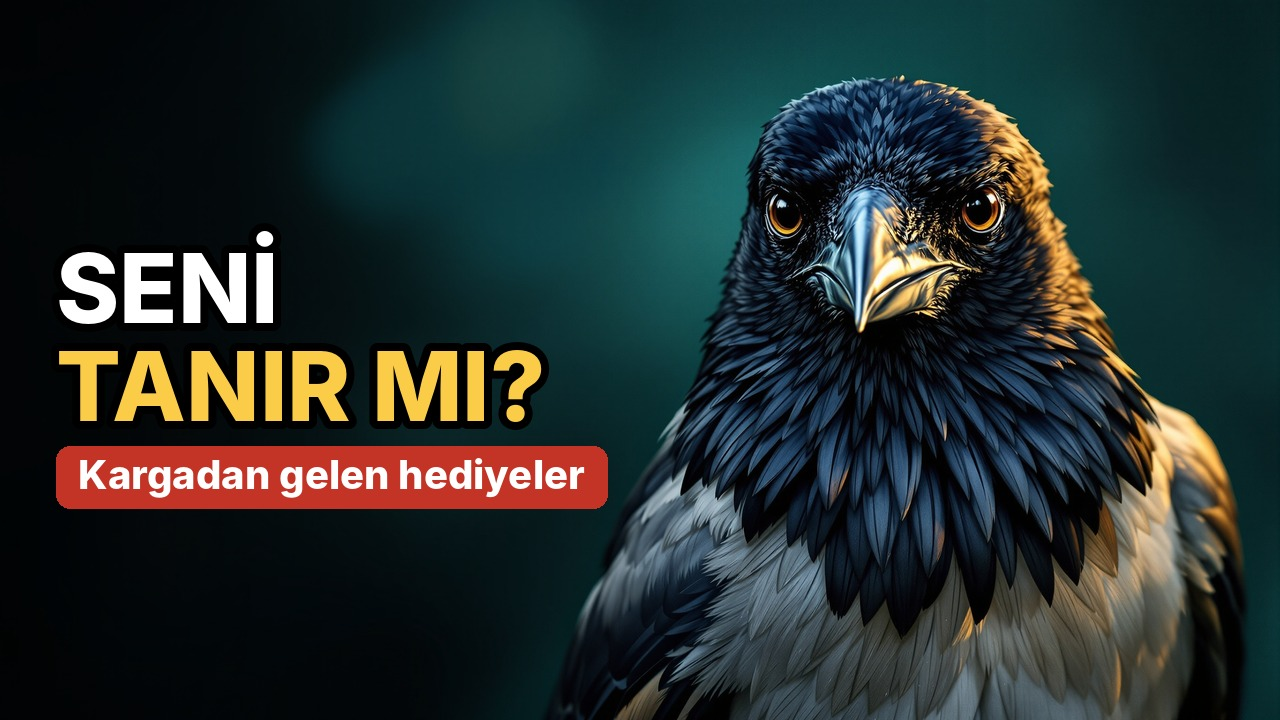
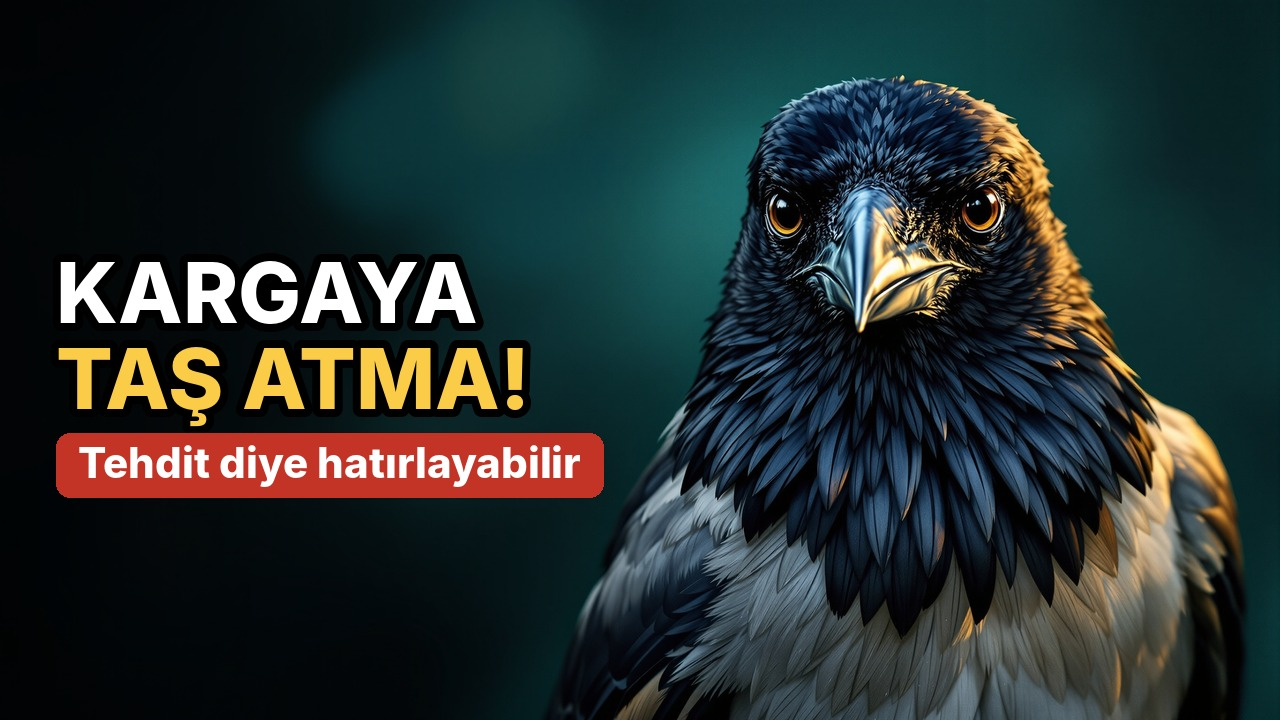
Kirpi metin editörü Tur 3 kaydı
Claude-Session: https://claude.ai/code/session_01BaFTGLb3DUQPcLQVA6aDtg

Changed region(s): [[0.0312, 0.3056, 0.5, 0.7333]]

diff --git a/hayvan-kanali/06-karga/kaynak_eslesme.md b/hayvan-kanali/06-karga/kaynak_eslesme.md
@@ -1,4 +1,4 @@
-# Kaynak eşleme – 06-karga (ikinci sürüm)
+# Kaynak eşleme – 06-karga (üçüncü sürüm, düzeltme turu; 71 cümle, numaralar yeni sıraya göre)
 
 Biçim: cümle no → kaynak → kaynakta geçen ifade → [açıldı / açılamadı, özetten].
 
@@ -19,7 +19,6 @@ Kaynaklar:
 - K12 = 2026-2027 Merkez Av Komisyonu Kararı, resmî PDF tarimorman.gov.tr/DKMP/…/8626.pdf [AÇILDI ama taranmış görüntü, metin okunamadı; kontrolcü resmî PDF'te gördü ve onayladı]
 - K13 = Yılmaz 2026, Gazi Türkiyat 38 (Tatar folklorunda karga) [açılamadı, özetten; künye patrondan]
 - K14 = en.wikipedia Hooded crow [AÇILDI]; K15 = en.wikipedia Rook (bird) [AÇILDI]; K16 = tr.wikipedia Küçük karga [AÇILDI]; K17 = tr.wikipedia Saksağan [AÇILDI]
-K18: Benmazouz, I. ve ark. (2021). Corvids in Urban Environments: A Systematic Global Literature Review. Animals 11(11): 3226. doi:10.3390/ani11113226 – kentlerde kolay yiyecek ve yuva yeri (bilgi kontrolcüsü doğruladı; ncbi.nlm.nih.gov/pmc/articles/PMC8614296) [özetten]
 - Kaynaklar listesinden çıkarılanlar: BTO karga rehberi ve Ankara Üniversitesi listesi (açılamadı); tür tarifleri artık K14–K17'ye dayanıyor. Ankara listesinin özetindeki Türkçe adlar (küçük karga, ekin kargası, leş kargası, saksağan) tr.wikipedia sayfa başlıklarıyla da örtüşüyor.
 
 ## Kanca ve maske deneyi
@@ -29,7 +28,7 @@ K18: Benmazouz, I. ve ark. (2021). Corvids in Urban Environments: A Systematic G
 4. Biyolog, tehdit edici maske, yedi karga → K4/ScienceBlog "wore a mask while trapping seven crows… in 2006"; K1 "trapped, banded and released". [özetten]
 5. O maskeyle yürüdü; kargalar bağırdı, başka maskelere pek bağırmadı → K1 "Few crows scolded trappers who wore no mask or a mask that had not been worn". [özetten]
 6. O gün orada olmayan kargalar bile katıldı → ScienceBlog "crows who weren't present at the time of capture still joined in". [özetten]
-7. Vaat → cümle 17–18 ve 23–25 ile karşılanıyor.
+7. Vaat (düzeltme turu): öfkenin yıllarca sürdüğü → cümle 17–18; kargaya taş atmama → cümle 54 (K1 çekincesi). Hediye vaadi çıkarıldı. [–]
 
 ## Maske deneyi
 8. Soru (boy/yaş/yürüyüş) → K1 "different sizes, ages, genders and walking gaits". [özetten]
@@ -62,9 +61,10 @@ K18: Benmazouz, I. ve ark. (2021). Corvids in Urban Environments: A Systematic G
 29. Yetişkin ekin kargası: gaga dibinde çıplak açık renkli deri → K15 "In adults, a bare area of whitish skin in front of the eye and around the base of the bill is distinctive"; tr.wikipedia Ekin kargası "tüysüz alan… diğer karga türlerinden ayırt edilmesini sağlayan belirgin bir özelliktir". "Yetişkin" kaydı yavruların yüzü tüylü olduğu için. [AÇILDI]
 30. Küçük karga küçük, ensesi gri, gözü açık renk → K16 "Gövdesi siyah, ensesi gri, gözleri beyazdır". [AÇILDI]
 31. Saksağan karga ailesinden; siyah beyaz, uzun kuyruk → K17 "Saksağan, kargagiller (Corvidae) familyasından uzun kuyruklu kuş türlerini kapsayan bir cins". Siyah beyaz renk: Avrupa saksağanı için genel bilgi; K17 sayfasında aranan "siyah" ifadesi bu cümleyi doğrudan vermedi (ZAYIF). [AÇILDI]
-32. Maske deneyleri Amerikan kargasıyla yapıldı → K1, K2 başlıkları "American crows". [özetten]
-33. Türkiye'deki kargalarla aynı deneyi yapan çalışma bulamadık; akraba türlerde benzer bulgular var → arama (bulunamama beyanı); akraba türler: cümle 34 (K5). [–]
-34. Güney Kore'de saksağanlar tırmanan insana saldırdı, tırmanmayana saldırmadı; yüzle tanıma → K5 "all the magpies showed aggression to the climbers, but not the non-climbers"; "learning to recognize the threatening humans by vision" (patron: deney Güney Kore'de). [özetten]
+(eski 32 çıkarıldı: Amerikan kargası çekincesi cümle 10 ve yeni 32'de var.)
+32. Bu deneyi Türkiye'deki kargalarla yapan bir çalışma bulamadık (yeni 32; eski 32 ile birleşti); akraba türlerde benzer bulgular var → arama (bulunamama beyanı); akraba türler: cümle 34 (K5). [–]
+33. Güney Kore'de saksağanlar yuvaya tırmanan insana saldırdı, tırmanmayana saldırmadı → K5 "all the magpies showed aggression to the climbers, but not the non-climbers"; "learning to recognize the threatening humans by vision" (patron: deney Güney Kore'de). [özetten]
+34. (eski 34'ün ikinci yarısı) Araştırmacılar bunu yüzle tanımaya bağlıyor → K5 "learning to recognize the threatening humans by vision"; "bağlıyor" çekincesi. [özetten]
 
 ## Beyin
 35. Soru. [–]
@@ -91,30 +91,28 @@ K18: Benmazouz, I. ve ark. (2021). Corvids in Urban Environments: A Systematic G
 52. Kargalar tehlike gördüğünde bağırıyor; maske deneyinde de böyle yaptılar → K1 "scolded and mobbed". [özetten]
 
 ## Kent ve çöp
-53. Kentlerde karga gibi kuşlar kolay yiyecek ve yuva yeri buluyor → K18 Springer "urban corvids generally benefit from the availability of easily accessible food and artificial nesting sites". [özetten; ZAYIF]
-54. Amerikan kargasında açık çöp, kompost, evcil hayvan maması çekiyor → K18 All About Birds "attracted by compost, garbage, or pet food". [özetten; ZAYIF]
-55. Çöpünü kapaklı kutuda tutmak işe yarayabilir → 54'ten çıkarım, "yarayabilir" çekincesi.
-56. Kovalama, taş atma; tehdit olarak hatırlayabilir → K1; "hatırlayabilir" çekincesi. [özetten]
+53. [DEĞİŞTİ] Açıkta kalan yiyecek hayvanları çekebilir; çöpünü kapaklı kutuda tutmak genel bir önlemdir. → Kaynak iddiası yok: bilgi cümlesi değil, çekinceli genel güvenlik tavsiyesi. Önceki çöp/kompost/kentte kolay yiyecek iddiası (K18, Benmazouz vd. 2021) kaynak listesinde olmadığı ve PMC/MDPI sayfaları bu oturumda açılamadığı (reCAPTCHA/403) için çıkarıldı; K18 kaynak listesine hiç yazılmadı. [–]
+54. Kovalama, taş atma; tehdit olarak hatırlayabilir → K1; "hatırlayabilir" çekincesi. [özetten]
 
 ## Yavru karga
-57. Soru. [–]
-58. Kanada'daki yaban hayatı kurtarma derneğine göre kargalar uçmayı öğrenirken bir süre yerde kalabiliyor → K10 "Young crows will spend approximately 1-2 weeks on the ground". Sayı metne yazılmadı. [özetten]
-59. Anne ve babası çoğu zaman yakındaki ağaçtan izliyor ve besliyor → K10 "almost always watching them from a nearby tree and feeding them". [özetten]
-60. Sağlıklı görünüyorsa eve götürme, bırak → K10 "if the bird appears healthy, it should be left alone". [özetten]
-61. Tehlike varsa yakındaki güvenli yere taşı → K10 "move it carefully to a safer spot nearby". [özetten]
-62. Yaralıysa, tüyleri tam çıkmamışsa, uzun süre beslenmiyorsa uzman yardımı → K10 "not fully feathered… injury… no signs of the parents within 4 hours" (dört saat yazılmadı). [özetten]
-63. Şube müdürlüğüne haber ver → kanal kuralı (tek kurum; telefon yok). [–]
-64. Hasta ya da ölü bir kuşa dokunma; dokunduysan ellerini sabunla yıka → K11 "The public should strictly avoid contact with sick or dead animals, including wild birds…" ve "washing their hands with soap and running water … especially important before and after contact with animals". [AÇILDI]
-65. Yavruya yaklaşırsan ebeveynleri alçalabilir; uzaklaşmak ve şemsiye öneriliyor → K10 "Parents may dive at people who get close… carrying an umbrella… extra distance". [özetten]
+55. Soru. [–]
+56. Kanada'daki yaban hayatı kurtarma derneğine göre kargalar uçmayı öğrenirken bir süre yerde kalabiliyor → K10 "Young crows will spend approximately 1-2 weeks on the ground". Sayı metne yazılmadı. [özetten]
+57. Anne ve babası çoğu zaman yakındaki ağaçtan izliyor ve besliyor → K10 "almost always watching them from a nearby tree and feeding them". [özetten]
+58. Sağlıklı görünüyorsa eve götürme, bırak → K10 "if the bird appears healthy, it should be left alone". [özetten]
+59. Tehlike varsa yakındaki güvenli yere taşı → K10 "move it carefully to a safer spot nearby". [özetten]
+60. Yaralıysa, tüyleri tam çıkmamışsa, uzun süre beslenmiyorsa uzman yardımı → K10 "not fully feathered… injury… no signs of the parents within 4 hours" (dört saat yazılmadı). [özetten]
+61. Şube müdürlüğüne haber ver → kanal kuralı (tek kurum; telefon yok). [–]
+62. Hasta ya da ölü bir kuşa dokunma; dokunduysan ellerini sabunla yıka → K11 "The public should strictly avoid contact with sick or dead animals, including wild birds…" ve "washing their hands with soap and running water … especially important before and after contact with animals". [AÇILDI]
+63. Yavruya yaklaşırsan ebeveynleri alçalabilir; uzaklaşmak ve şemsiye öneriliyor → K10 "Parents may dive at people who get close… carrying an umbrella… extra distance". [özetten]
 
 ## Yasal durum
-66. Soru. [–] (baykuşlar koruma altında: 05-baykus videosu)
-67. Leş kargası, ekin kargası, küçük karga, saksağan, alakarga av hayvanı sayılıyor → K12 (kontrolcü resmî PDF'te gördü); haber özeti "alakarga, küçük karga, ekin kargası, leş kargası, karabatak ve saksağan avı … 7 Mart 2027'ye kadar". [PDF taranmış; kontrolcü onayı]
-68. İzinli avcılar belirlenen tarih ve bölgelerde avlayabiliyor → K12; Lexpera metni "AVBİS'ten izin alan avcıların günlük limitler dahilinde". [kontrolcü onayı]
-69. Karar her av dönemi için yeniden yayımlanıyor, illere göre kurallar değişebiliyor → K12 başlığı "2026-2027 Av Dönemi…"; önceki dönem kararları 22 (2023-2024), 23 (2024-2025), 24 (2025-2026); il farkı: Bingöl/Denizli haberleri. [özetten]
-70. Şube müdürlüğüne danış → kanal kuralı. [–]
+64. Soru. [–] (baykuşlar koruma altında: 05-baykus videosu)
+65. Leş kargası, ekin kargası, küçük karga, saksağan, alakarga av hayvanı sayılıyor → K12 (kontrolcü resmî PDF'te gördü); haber özeti "alakarga, küçük karga, ekin kargası, leş kargası, karabatak ve saksağan avı … 7 Mart 2027'ye kadar". [PDF taranmış; kontrolcü onayı]
+66. İzinli avcılar belirlenen tarih ve bölgelerde avlayabiliyor → K12; Lexpera metni "AVBİS'ten izin alan avcıların günlük limitler dahilinde". [kontrolcü onayı]
+67. Karar her av dönemi için yeniden yayımlanıyor, illere göre kurallar değişebiliyor → K12 başlığı "2026-2027 Av Dönemi…"; önceki dönem kararları 22 (2023-2024), 23 (2024-2025), 24 (2025-2026); il farkı: Bingöl/Denizli haberleri. [özetten]
+68. Şube müdürlüğüne danış → kanal kuralı. [–]
 
 ## Kapanış
-71. Kargalar yüzü tanıyabiliyor ve sana nasıl davrandığını yıllarca hatırlayabilir → K1, K4; çekinceli; sınır cümle 10 ve 32–33'te. [özetten]
-72. Yorum sorusu. [–]
-73. Kanal kapanış kalıbı. [–]
+69. Kargalar yüzü tanıyabiliyor ve sana nasıl davrandığını yıllarca hatırlayabilir → K1, K4; çekinceli; sınır cümle 10 ve 32–33'te. [özetten]
+70. Yorum sorusu. [–]
+71. Kanal kapanış kalıbı. [–]

diff --git a/hayvan-kanali/kanal/onaylar/03-kirpi.md b/hayvan-kanali/kanal/onaylar/03-kirpi.md
@@ -16,3 +16,8 @@ Video 17 Kasım'da ofis öncesi dönemde üretildi (Alo 174 düzeltmesiyle) ve 2
   - Uluturk ve Coskun (2012) ile Özen (2005) künyeleri sayfadaki özgün başlıkla yazıldı; Hedgehog Street biyoloji satırının açıklaması sayfadaki içerikle sınırlandı.
 - Yeniden seslendirme: uzun 11, 47; Shorts 5 cümle 4. Uzun video ve Shorts 5 yeniden oluşturulacak.
 - Yeniden oluşturma (19 Kasım): uzun video 70/70, Shorts 5 6/6, bütün testler geçti.
+
+## Metin editörü Tur 3 (19 Kasım)
+- Karar: RET. Puan: kanca 6, anlatim 7, baslik 6, shorts 7.
+- Bulgular: ilk soru 0:24, cevap 0:33; 0:48–2:10 arası soru yok; cümle 004 "hayatını tehlikeye atabilir" Tur 2 yumuşatmasından kaçmış; 6 cümle 18 kelimeyi aşıyor; başlık parantezi ve küçük resim yeni vaat taşımıyor; Shorts 6 konudan sapıyor.
+- Patron kararı: yeniden sıralama (ses yeniden kullanılır), elma efsanesi öne, başlık "Kirpiye Sakın Süt Verme! (Ekmek Bile Yanlış, Doğrusu Ne?)" önerisi senaristte. Başlık değişirse kanal sahibi planlı videoyu yenisiyle değiştirecek.
